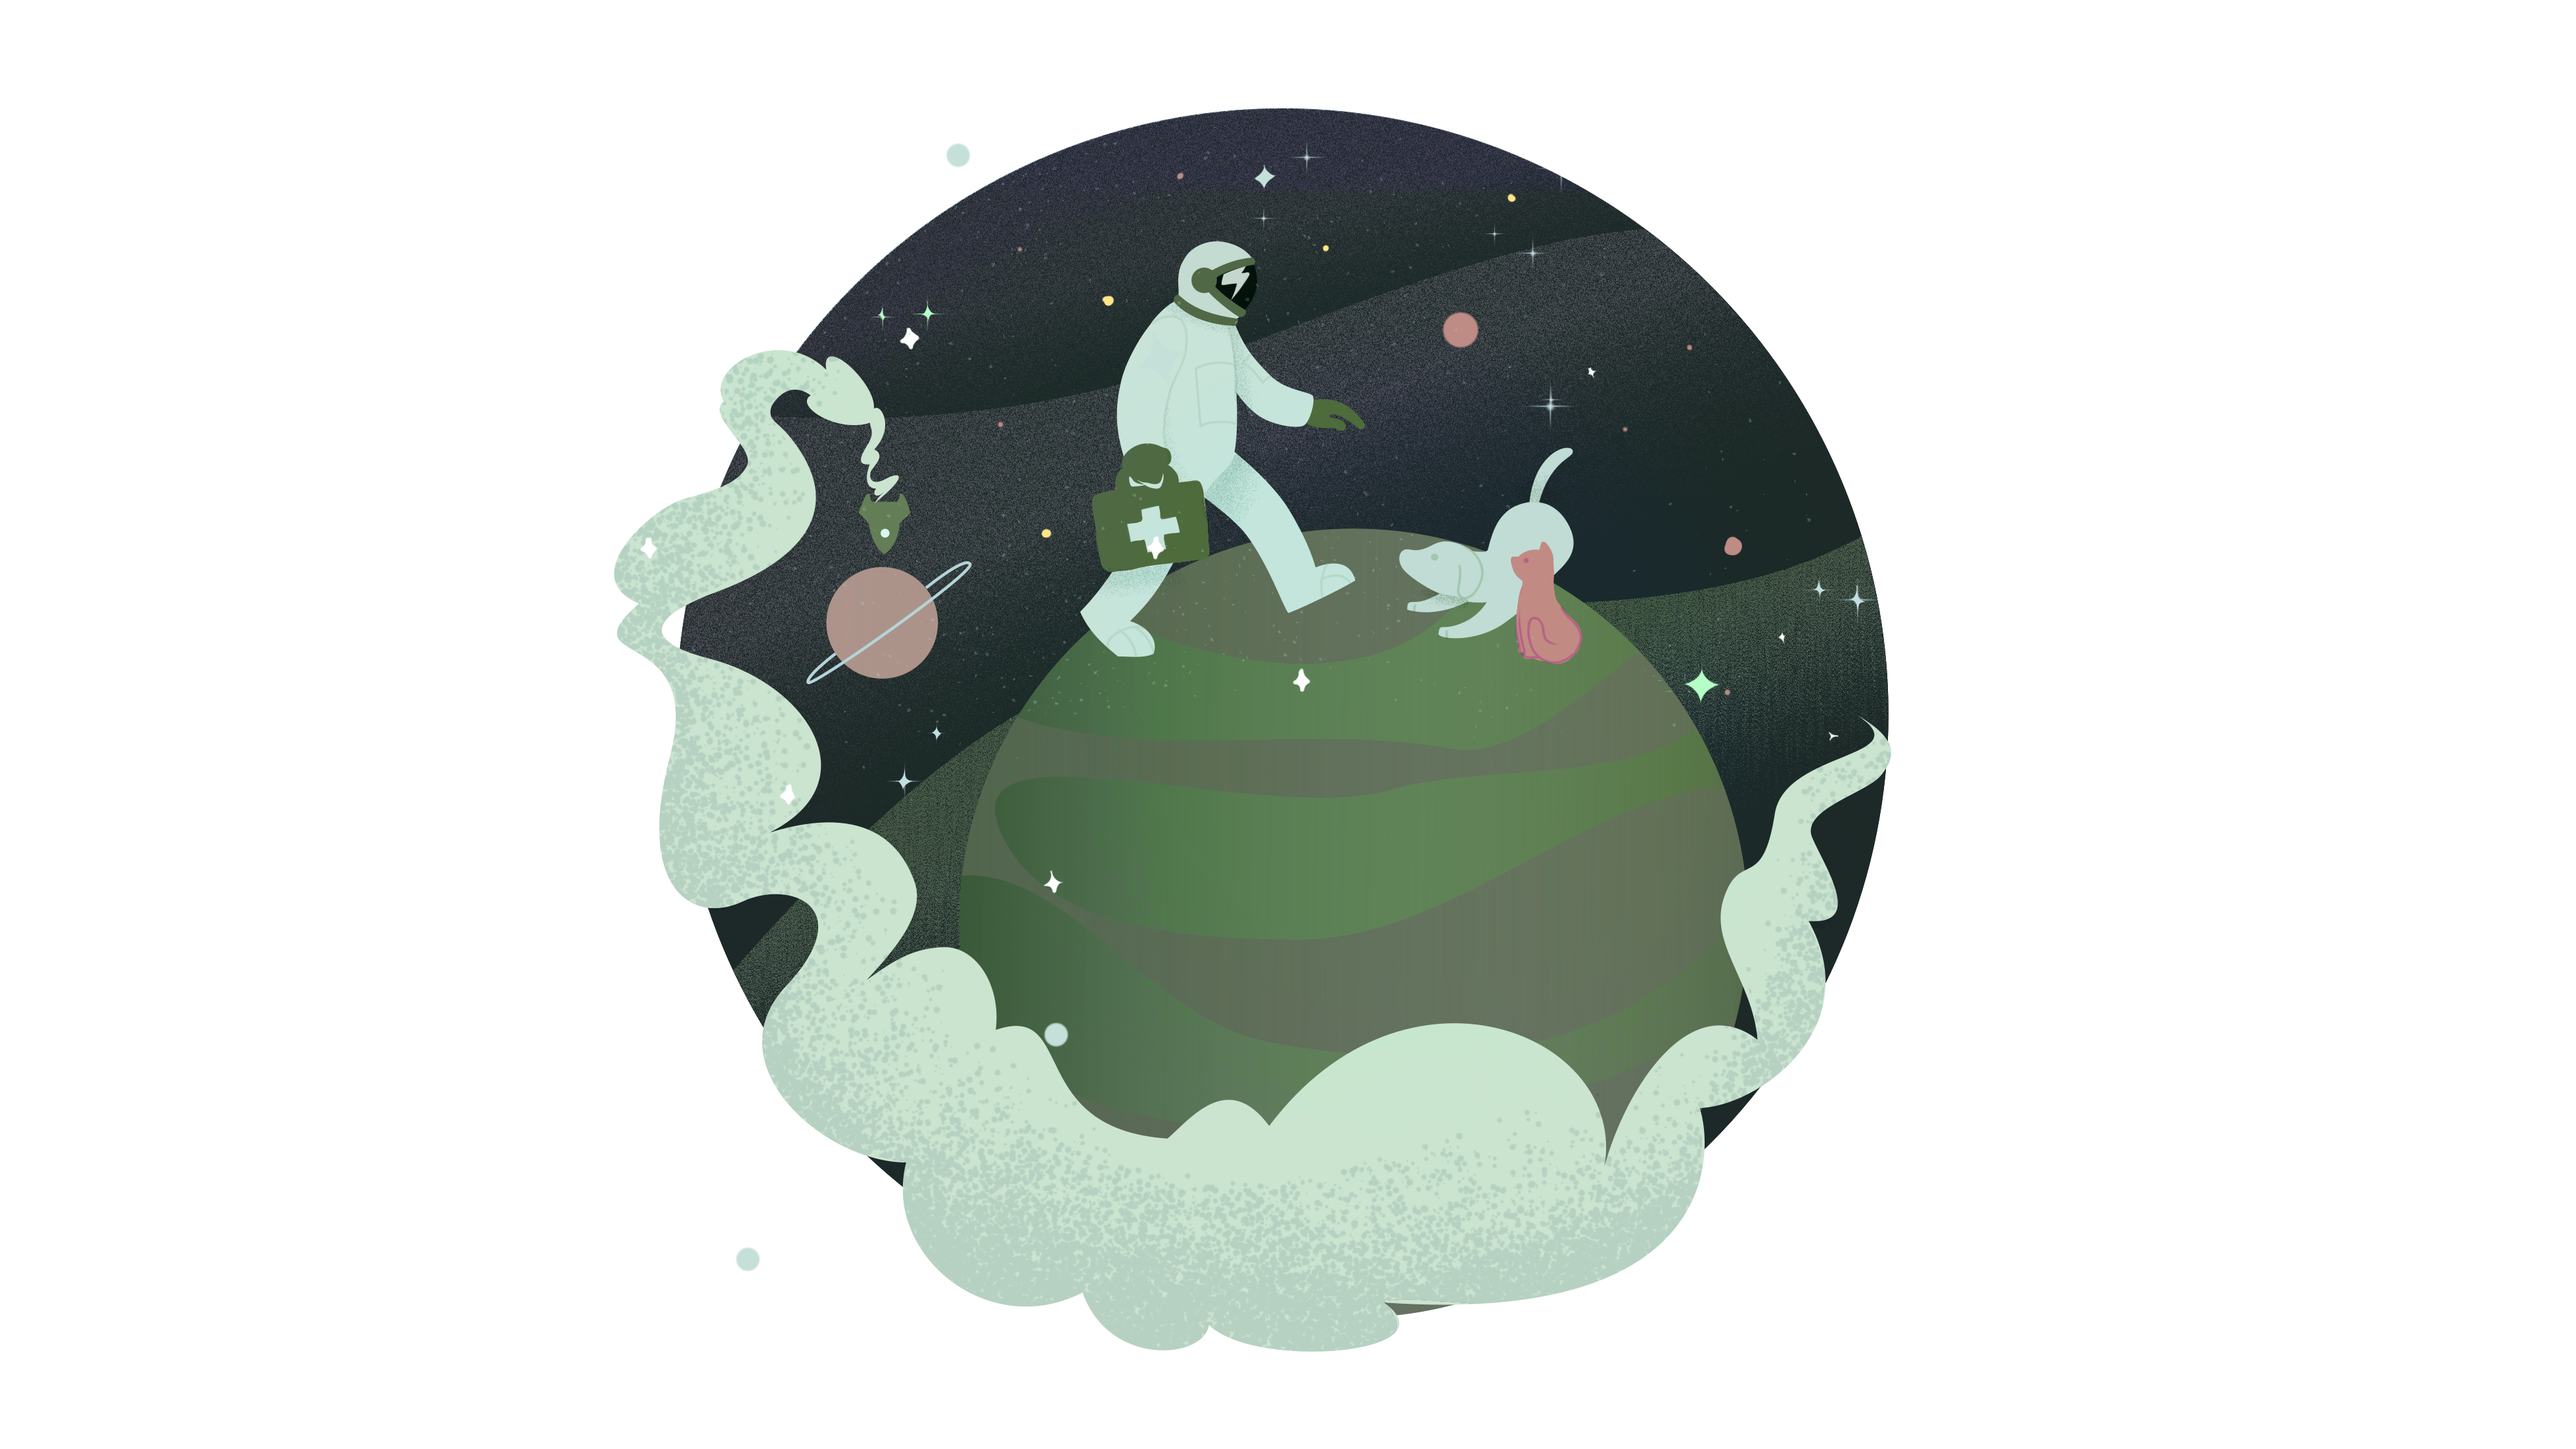
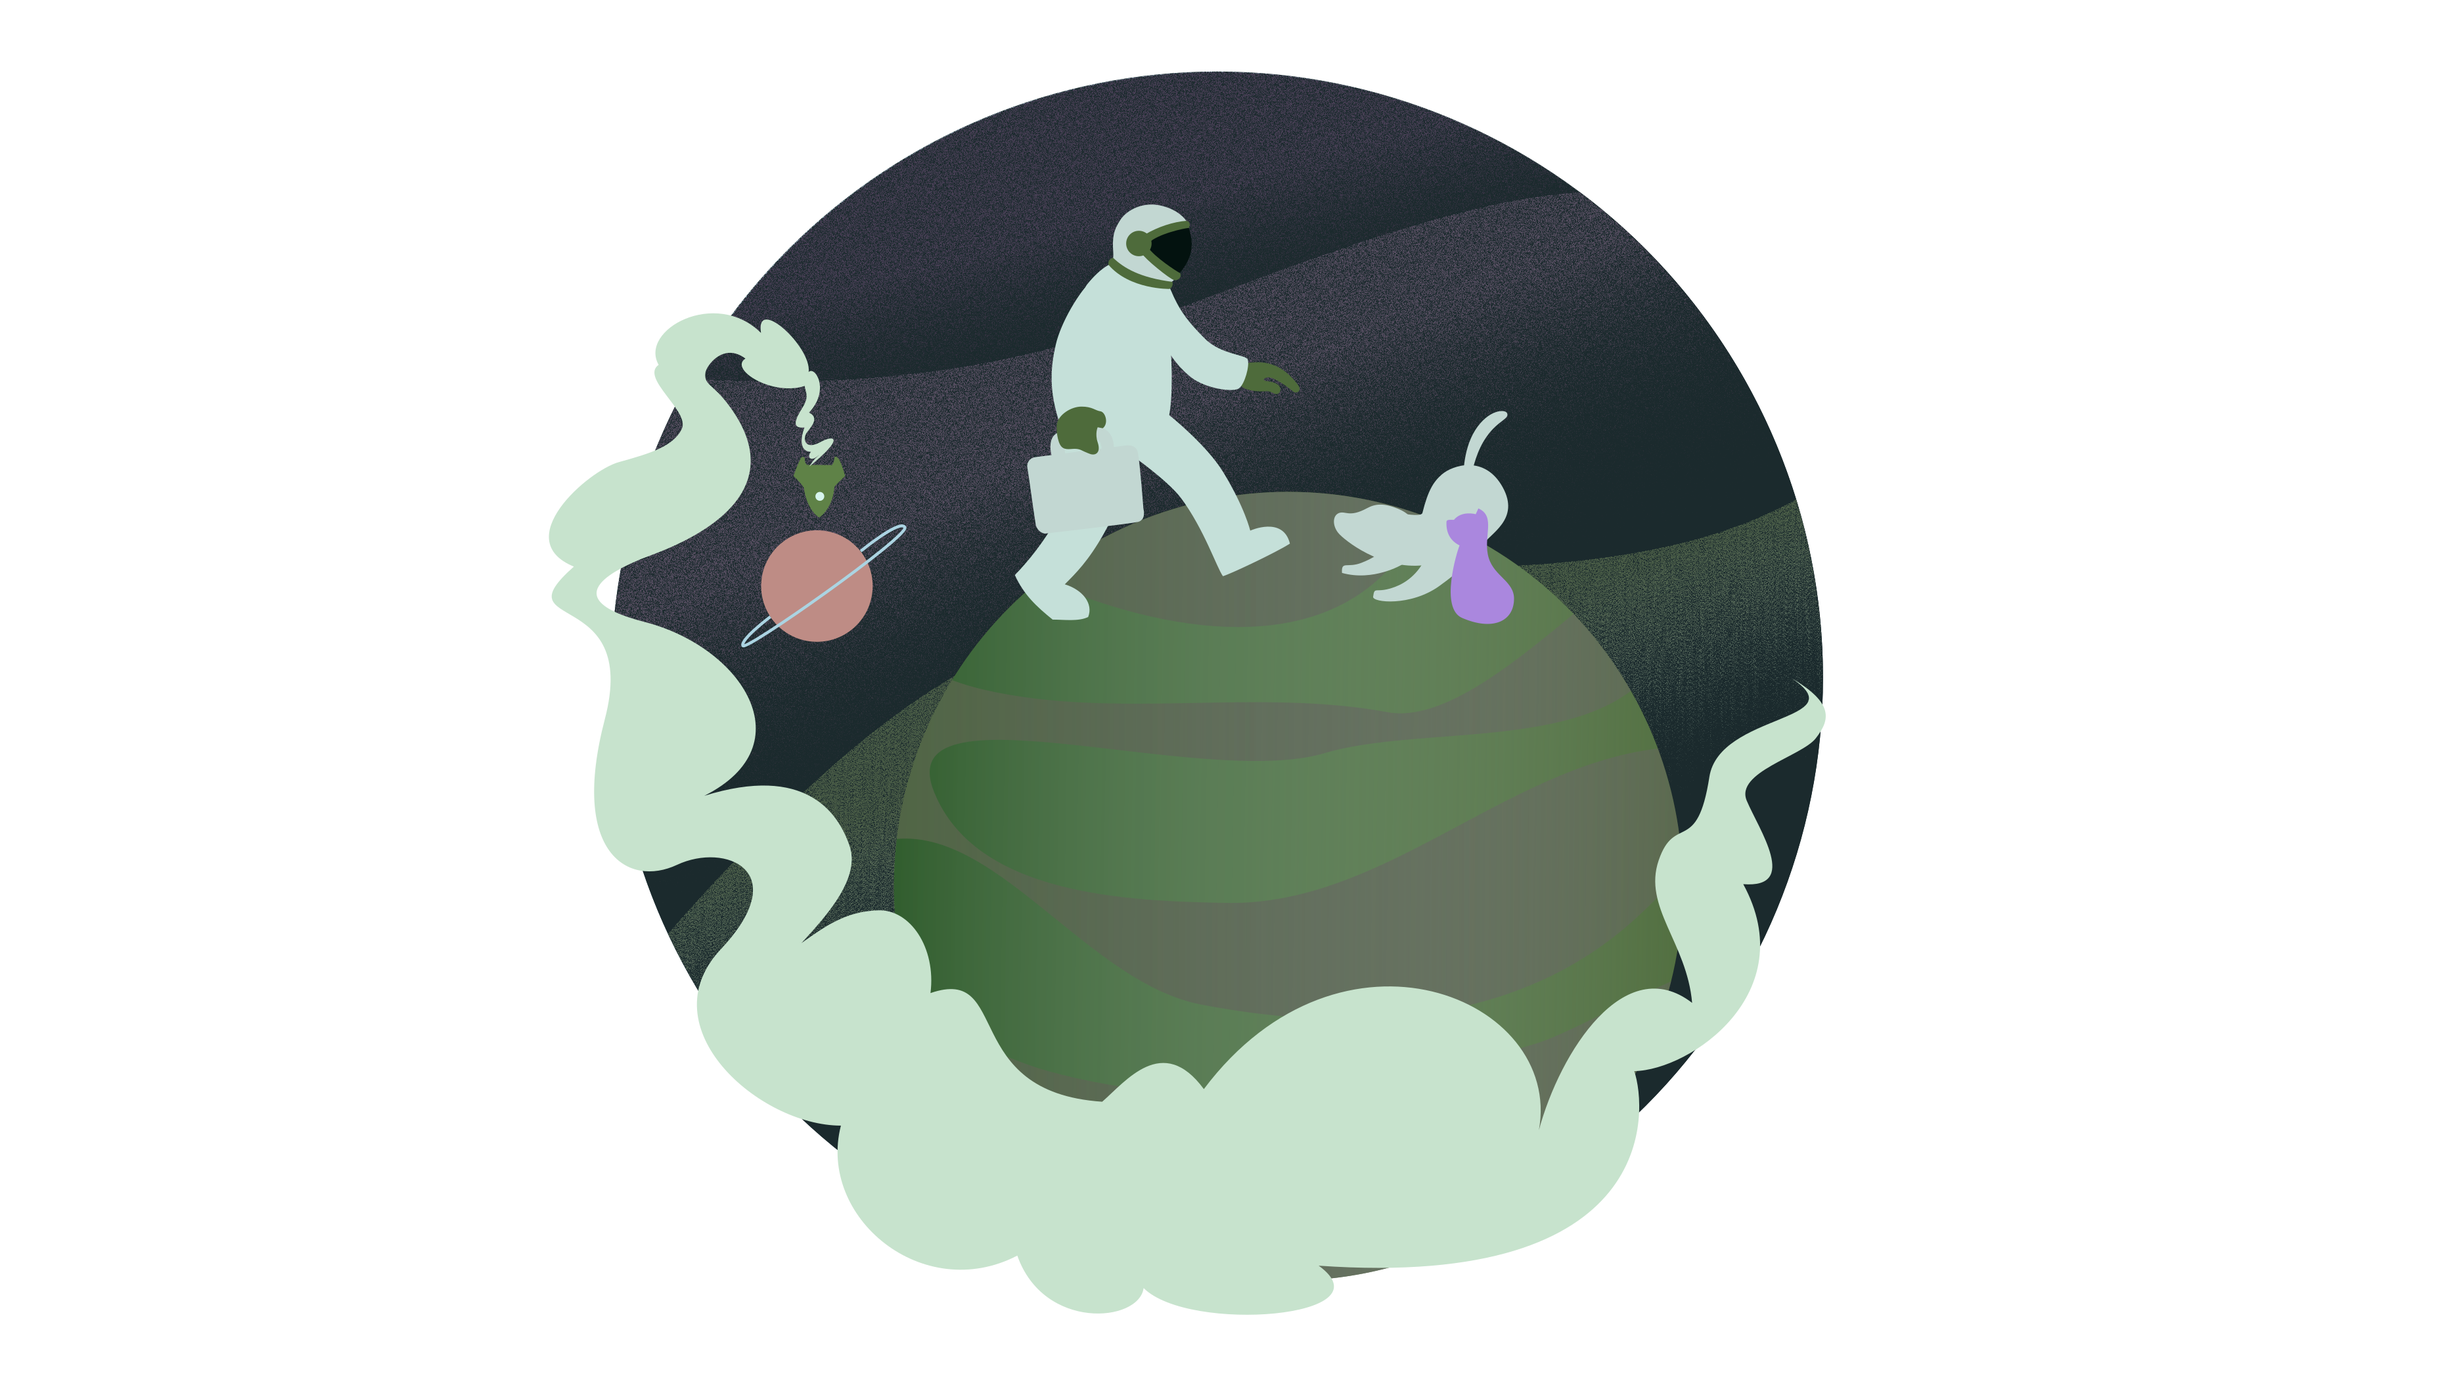
change image

Changed region(s): [[0.2181, 0.031, 0.7478, 0.9623]]

diff --git a/src/components/SobreNosotros.jsx b/src/components/SobreNosotros.jsx
@@ -1,17 +1,41 @@
-// src/components/SobreNosotros.jsx
+import about_img from '../assets/JetVetIlustracion02_WIP2_500px.png';
 
 export default function SobreNosotros() {
   return (
     <section
-      id="nosotros" /* bg-[#C5E0D8] */
-      className="min-h-screen px-6 py-20 bg-[#C5E0D8]  md:bg-[#F6E9DF] text-neutralDark text-center lg:text-left flex items-center justify-center"
+      id="nosotros"
+      className="min-h-screen px-6 py-16 bg-[#F6E9DF] md:bg-[#F6E9DF] text-neutralDark"
     >
-      <div className="max-w-3xl">
-        <h2 className="text-3xl lg:text-5xl volkhov-bold mb-6">Sobre Nosotros</h2>
-        <p className="text-lg lg:text-xl volkhov-regular">
-          Jet Vets Quisque tincidunt diam eget tempus hendrerit. Suspendisse nibh urna, consectetur quis lectus ut, pharetra volutpat nulla. Integer ornare justo mauris, eleifend fermentum nisl varius tempus. Nulla facilisi. Etiam nisl augue, pharetra et metus nec, tempor laoreet sapien. Vivamus dignissim laoreet congue. In dictum risus quam, et auctor urna placerat condimentum. Nullam nec nisl sed purus facilisis volutpat vitae sit amet nisi. Donec rhoncus vulputate arcu eget euismod. Nam mi sapien, placerat ac aliquet id, mattis ut ligula. Donec convallis venenatis metus, eget tincidunt leo rutrum et. Interdum et malesuada fames ac ante ipsum primis in faucibus. Vivamus rhoncus quis lacus eget scelerisque. Curabitur ultrices augue vel ante venenatis, eu congue est vestibulum. Donec est orci, ultricies eget pretium id, tempor eu ex. Donec at elementum lorem, eu tristique augue.
-        </p>
-      </div>
+      {/* Contenedor responsivo */}
+      <div className="mx-auto max-w-6xl grid grid-cols-1 lg:grid-cols-2 items-center gap-10">
+  
+  {/* Imagen: en mobile abajo (order-2), en desktop a la izquierda (lg:order-1) */}
+  <div className="order-2 lg:order-1 flex justify-center lg:justify-start">
+    <img
+      src={about_img}
+      alt="Astronauta Jet Vets"
+      className="w-[320px] sm:w-[420px] lg:w-[500px] h-auto object-contain"
+    />
+  </div>
+
+  {/* Texto: en mobile arriba (order-1), en desktop a la derecha (lg:order-2) */}
+  <div className="order-1 lg:order-2 max-w-3xl mx-auto lg:mx-0 text-center lg:text-left">
+    <h2 className="text-3xl lg:text-5xl volkhov-bold mb-6">Sobre Nosotros</h2>
+    <p className="text-lg lg:text-xl volkhov-regular">
+      Jet Vets Quisque tincidunt diam eget tempus hendrerit. Suspendisse nibh urna,
+      consectetur quis lectus ut, pharetra volutpat nulla. Integer ornare justo mauris,
+      eleifend fermentum nisl varius tempus. Nulla facilisi. Etiam nisl augue, pharetra et
+      metus nec, tempor laoreet sapien. Vivamus dignissim laoreet congue. In dictum risus
+      quam, et auctor urna placerat condimentum. Nullam nec nisl sed purus facilisis
+      volutpat vitae sit amet nisi. Donec rhoncus vulputate arcu eget euismod. Nam mi
+      sapien, placerat ac aliquet id, mattis ut ligula. Donec convallis venenatis metus,
+      eget tincidunt leo rutrum et. Interdum et malesuada fames ac ante ipsum primis in
+      faucibus. Vivamus rhoncus quis lacus eget scelerisque. Curabitur ultrices augue vel
+      ante venenatis, eu congue est vestibulum. Donec est orci, ultricies eget pretium id,
+      tempor eu ex. Donec at elementum lorem, eu tristique augue.
+    </p>
+  </div>
+</div>
     </section>
   );
 }

diff --git a/src/components/hero.jsx b/src/components/hero.jsx
@@ -1,5 +1,5 @@
 // src/components/Hero.jsx
-import mascotas from '../assets/vet-llegando.png';
+import mascotas from '../assets/Ilustracion2_Clean_500.png';
 import FloatingRocket from './FloatingRocket';
 
 export default function Hero() {
@@ -26,7 +26,7 @@ export default function Hero() {
           <img
             src={mascotas}
             alt="Astronauta Jet Vets"
-            className="w-[250px] md:w-[380px] lg:w-[500px] lg:translate-y-[73px]"
+            className="w-[330px] md:w-[380px] lg:w-[500px] lg:translate-y-[-30px] lg:translate-x-[-60px]"
           />
         </div>
         

diff --git a/src/components/header.jsx b/src/components/header.jsx
@@ -11,8 +11,8 @@ export default function Header() {
   }, [open]);
 
   return (
-    <header className="bg-[#F6E9DF] h-[70px] px-3 py-8 md:px-12 md:py-10 flex justify-between items-center relative">
-      <img src={logo} alt="Jet Vets Logo" className="md:mt-5 h-[90px] md:h-[130px]" />
+    <header className="bg-[#F6E9DF] h-[70px] px-3 py-8 md:px-12 md:py-11 flex justify-between items-center relative">
+      <img src={logo} alt="Jet Vets Logo" className="mt-4 md:mt-1 h-[95px] md:h-[130px]" />
 
       {/* Desktop */}
       <nav className="hidden md:flex md:gap-10 items-center">

diff --git a/src/components/Formularioreseva.jsx b/src/components/Formularioreseva.jsx
@@ -6,7 +6,7 @@ export default function FormularioReserva() {
   const asunto = searchParams.get('asunto') || '';
 
   return (
-    <section id="reserva" className="min-h-screen bg-[#F6E9DF] flex flex-col items-center justify-center px-4">
+    <section id="reserva" className="min-h-screen bg-[#C5E0D8] md:bg-[#F6E9DF] flex flex-col items-center justify-center px-4">
       <h1 className="text-4xl volkhov-bold mb-8">RESERVA TU HORA</h1>
       <form className="bg-white p-8 rounded-xl shadow-md w-full max-w-md space-y-4">
         <div className="grid-col">
